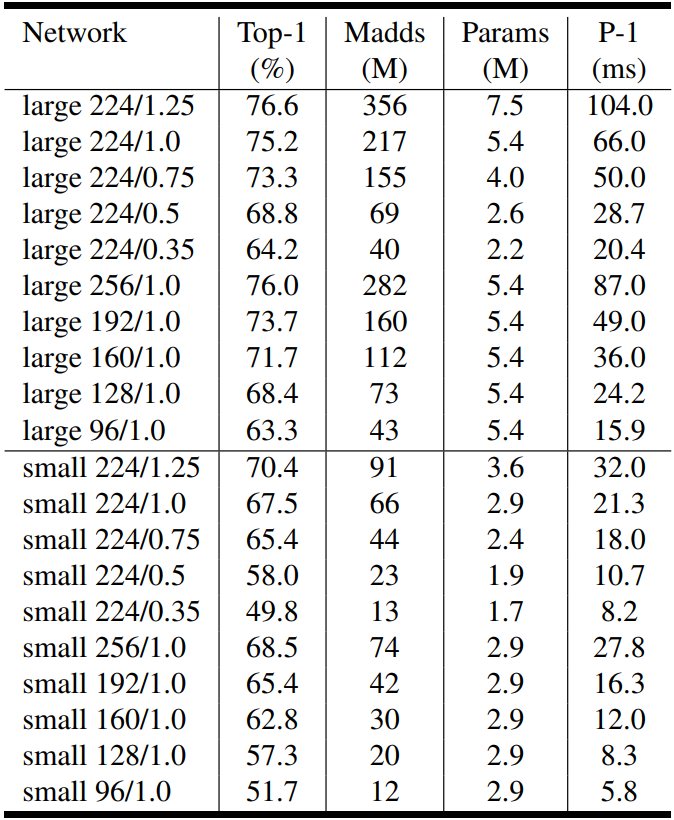
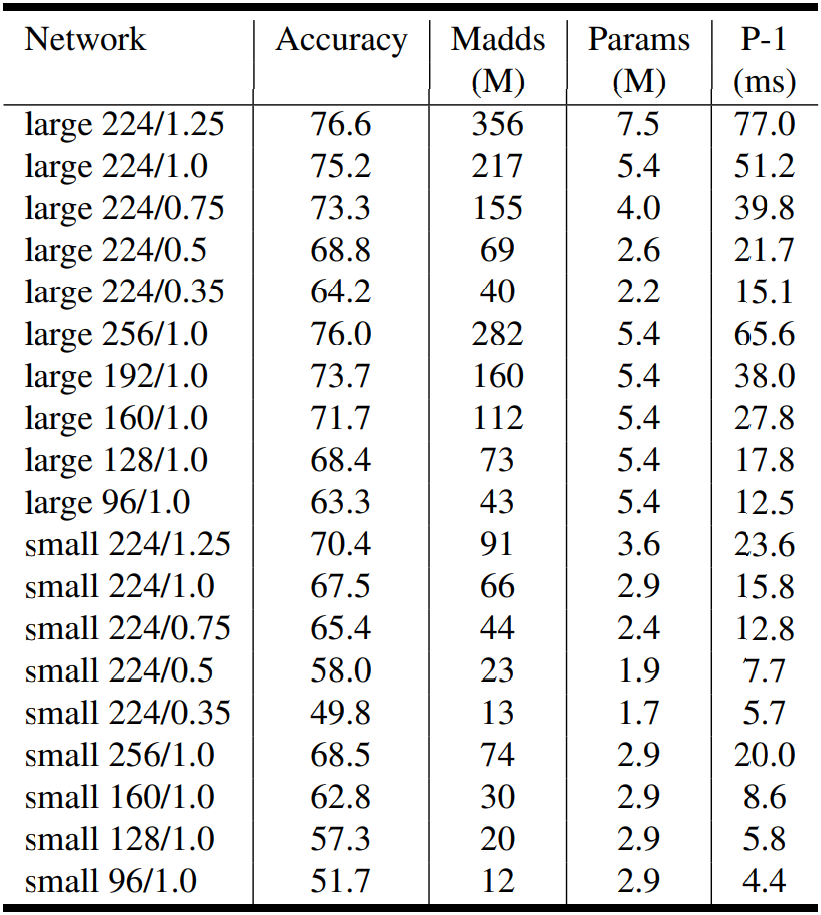
update

Changed region(s): [[0.0, 0.0, 0.997, 1.0], [0.0312, 0.0, 0.1869, 0.061]]

diff --git a/_posts/2019-05-22-MobileNetV3.md b/_posts/2019-05-22-MobileNetV3.md
@@ -48,30 +48,30 @@ tags:
 
 &emsp;移动模型已经建立在越来越高效的构建块之上。MobileNetV1引入深度可分离卷积作为传统卷积层的有效替代。深度可分卷积通过将空间滤波与特征生成机制分离，有效地分解了传统卷积。深度可分卷积由两个独立的层定义:用于空间滤波的轻量级深度卷积和用于特征生成的较重的1x1逐点卷积。
 
-&emsp;MobileNetV2引入了线性瓶颈和反向残差结构，以便利用问题的低秩性质使层结构更加有效。这个结构如下图所示，由1x1拓展卷积（注：即提升通道数）、深度卷积和1x1投影层定义。当且仅当输入和输出具有相同数量的通道时，才用残差链接连接它们。该结构在保持输入和输出的紧凑表示的同时，在内部扩展到高维特征空间，以增加每个通道非线性转换的表现力。
+&emsp;MobileNetV2引入了线性瓶颈和反向残差结构，以便利用问题的低秩性质使层结构更加有效。这个结构如图3所示，由1x1拓展卷积（注：即提升通道数）、深度卷积和1x1投影层定义。当且仅当输入和输出具有相同数量的通道时，才用残差链接连接它们。该结构在保持输入和输出的紧凑表示的同时，在内部扩展到高维特征空间，以增加每个通道非线性转换的表现力。
 
 <center>
     <img style="border-radius: 0.3125em;
     box-shadow: 0 2px 4px 0 rgba(34,36,38,.12),0 2px 10px 0 rgba(34,36,38,.08);" 
-    src="https://raw.githubusercontent.com/ShowLo/ShowLo.github.io/master/img/2019-05-22-MobileNetV3/MobileNetV2.png">
+    src="https://raw.githubusercontent.com/ShowLo/ShowLo.github.io/master/img/2019-05-22-MobileNetV3/figure3.png">
     <br>
     <div style="color:orange; border-bottom: 1px solid #d9d9d9;
     display: inline-block;
     color: #999;
-    padding: 2px;">MobileNetV2层(反向残差和线性瓶颈)。每个块由窄的输入和输出(瓶颈)组成，它们没有非线性，然后扩展到一个更高维度的空间并投影到输出。残差连接瓶颈(而不是扩展)</div>
+    padding: 2px;">图3. MobileNetV2层(反向残差和线性瓶颈)。每个块由窄的输入和输出(瓶颈)组成，它们没有非线性，然后扩展到一个更高维度的空间并投影到输出。残差连接瓶颈(而不是扩展)</div>
 </center>
 
-&emsp;MnasNet建立在MobileNetV2结构上，在瓶颈结构中引入基于压缩和激励（squeeze and excitation）的轻量级注意力模块。注意，与[Squeeze-and-Excitation Networks](https://arxiv.org/abs/1709.01507)中提出的基于ResNet的模块相比，压缩和激励模块集成在不同的位置。此模块位于拓展的深度滤波器之后，以便注意力机制应用于最大的表示（representation），如下图所示。
+&emsp;MnasNet建立在MobileNetV2结构上，在瓶颈结构中引入基于压缩和激励（squeeze and excitation）的轻量级注意力模块。注意，与[Squeeze-and-Excitation Networks](https://arxiv.org/abs/1709.01507)中提出的基于ResNet的模块相比，压缩和激励模块集成在不同的位置。此模块位于拓展的深度滤波器之后，以便注意力机制应用于最大的表示（representation），如图4所示。
 
 <center>
     <img style="border-radius: 0.3125em;
     box-shadow: 0 2px 4px 0 rgba(34,36,38,.12),0 2px 10px 0 rgba(34,36,38,.08);" 
-    src="https://raw.githubusercontent.com/ShowLo/ShowLo.github.io/master/img/2019-05-22-MobileNetV3/MobileNetV3.png">
+    src="https://raw.githubusercontent.com/ShowLo/ShowLo.github.io/master/img/2019-05-22-MobileNetV3/figure4.png">
     <br>
     <div style="color:orange; border-bottom: 1px solid #d9d9d9;
     display: inline-block;
     color: #999;
-    padding: 2px;">MobileNetV2+Squeeze-and-Excite。与SENet相比，我们在残差层施加压缩和激励。 我们根据层的不同使用不同的非线性，详见5.2节</div>
+    padding: 2px;">图4. MobileNetV2+Squeeze-and-Excite。与SENet相比，我们在残差层施加压缩和激励。 我们根据层的不同使用不同的非线性，详见5.2节</div>
 </center>
 
 &emsp;对于MobileNetV3，我们使用这些层的组合作为构建块，以便构建最有效的模型。图层也通过修改swish非线性进行升级。压缩和激励以及swish非线性都使用了sigmoid，它的计算效率很低，而且很难在定点算法中保持精度，因此我们将其替换为硬sigmoid，如5.2节所讨论的。
@@ -124,17 +124,17 @@ tags:
 
 &emsp;为了减少延迟并保留高维特征，我们将该层移到最终的平均池化之后。最后一组特征现在以1x1空间分辨率计算，而不是7x7空间分辨率。这种设计选择的结果是，在计算和延迟方面，特征的计算变得几乎是free的。
 
-&emsp;一旦降低了该特征生成层的成本，就不再需要以前的瓶颈投影层来减少计算量。该观察允许我们删除前一个瓶颈层中的投影和滤波层，从而进一步降低计算复杂度。原始阶段和优化后的最后一个阶段如下图所示。有效的最后一个阶段将延迟减少了10毫秒，即15%的运行时间，并将操作数量减少了3000万个MAdds，几乎没有损失精度。 第6节包含了详细的结果。
+&emsp;一旦降低了该特征生成层的成本，就不再需要以前的瓶颈投影层来减少计算量。该观察允许我们删除前一个瓶颈层中的投影和滤波层，从而进一步降低计算复杂度。原始阶段和优化后的最后一个阶段如图5所示。有效的最后一个阶段将延迟减少了10毫秒，即15%的运行时间，并将操作数量减少了3000万个MAdds，几乎没有损失精度。 第6节包含了详细的结果。
 
 <center>
     <img style="border-radius: 0.3125em;
     box-shadow: 0 2px 4px 0 rgba(34,36,38,.12),0 2px 10px 0 rgba(34,36,38,.08);" 
-    src="https://raw.githubusercontent.com/ShowLo/ShowLo.github.io/master/img/2019-05-22-MobileNetV3/original-efficient.png">
+    src="https://raw.githubusercontent.com/ShowLo/ShowLo.github.io/master/img/2019-05-22-MobileNetV3/figure5.png">
     <br>
     <div style="color:orange; border-bottom: 1px solid #d9d9d9;
     display: inline-block;
     color: #999;
-    padding: 2px;">原来的和有效的最后一个阶段的比较。这个更有效的最后阶段能够在不损失精度的情况下，在网络的末端丢弃三个expensive的层</div>
+    padding: 2px;">图5. 原来的和有效的最后一个阶段的比较。这个更有效的最后阶段能够在不损失精度的情况下，在网络的末端丢弃三个expensive的层</div>
 </center>
 
 &emsp;另一个expensive的层是初始过滤器集。目前的移动模型倾向于在一个完整的3x3卷积中使用32个滤波器来构建初始滤波器库进行边缘检测。通常这些过滤器是彼此的镜像。我们尝试减少滤波器的数量，并使用不同的非线性来尝试减少冗余。我们决定对这一层使用硬swish非线性，因为它表现得和其他被测试的非线性一样好。我们能够将滤波器的数量减少到16个，同时保持与使用ReLU或swish的32个滤波器相同的精度。这节省了额外的3毫秒和1000万MAdds。
@@ -151,17 +151,17 @@ $$swish(x)=x\cdot\sigma(x)$$
 
 $$h-swish[x]=x\frac{RELU6(x+3)}{6}$$
 
-&emsp;最近在某篇文章中也提出了类似的hard-swish版本。下图显示了sigmoid和swish非线性的软、硬版本的比较。我们选择常量的动机是简单，并且与原始的平滑版本很好地匹配。在我们的实验中，我们发现所有这些函数的硬版本在精度上没有明显的差异，但是从部署的角度来看，它们具有多种优势。首先，几乎所有的软件和硬件框架上都可以使用ReLU6的优化实现。其次，在量化模式下，它消除了由于近似sigmoid的不同实现而引起的潜在数值精度损失。最后，即使优化了量化的sigmoid实现，其速度也比相应的ReLU慢得多。在我们的实验中，用量化模式下的swish替换h-swish使推理延迟增加了15%。
+&emsp;最近在某篇文章中也提出了类似的hard-swish版本。图6显示了sigmoid和swish非线性的软、硬版本的比较。我们选择常量的动机是简单，并且与原始的平滑版本很好地匹配。在我们的实验中，我们发现所有这些函数的硬版本在精度上没有明显的差异，但是从部署的角度来看，它们具有多种优势。首先，几乎所有的软件和硬件框架上都可以使用ReLU6的优化实现。其次，在量化模式下，它消除了由于近似sigmoid的不同实现而引起的潜在数值精度损失。最后，在实践中，h-swish可以作为一个分段函数来实现，以减少内存访问次数，从而大大降低了延迟。
 
 <center>
     <img style="border-radius: 0.3125em;
     box-shadow: 0 2px 4px 0 rgba(34,36,38,.12),0 2px 10px 0 rgba(34,36,38,.08);" 
-    src="https://raw.githubusercontent.com/ShowLo/ShowLo.github.io/master/img/2019-05-22-MobileNetV3/sigmoid-swish.png">
+    src="https://raw.githubusercontent.com/ShowLo/ShowLo.github.io/master/img/2019-05-22-MobileNetV3/figure6.png">
     <br>
     <div style="color:orange; border-bottom: 1px solid #d9d9d9;
     display: inline-block;
     color: #999;
-    padding: 2px;">sigmoid和swish非线性及其他“硬”对应物</div>
+    padding: 2px;">图6. sigmoid和swish非线性及其他“硬”对应物</div>
 </center>
 
 &emsp;2. 随着我们深入网络，应用非线性的成本会降低，因为每层激活内存通常在分辨率下降时减半。顺便说一句，我们发现swish的大多数好处都是通过只在更深的层中使用它们实现的。因此，在我们的架构中，我们只在模型的后半部分使用h-swish。我们参照表1和表2来获得精确的布局。
@@ -188,13 +188,13 @@ $$h-swish[x]=x\frac{RELU6(x+3)}{6}$$
     padding: 2px;">表2. MobileNetv3-Small规范。符号见表1。</div>
 </center>
 
-&emsp;即使有了这些优化，h-swish仍然会带来一些延迟成本。然而，正如我们在第6节中所展示的，对准确性和延迟的净影响是积极的，它为进一步的软件优化提供了一个场所：一旦平滑的Sigmoid被逐段线性函数取代，大部分开销都是内存访问，可以通过将非线性与前一层融合来消除。
+&emsp;即使有了这些优化，h-swish仍然会带来一些延迟成本。然而，正如我们在第6节中所演示的那样，当使用基于分段函数的优化实现时，对精度和延迟的净影响是正的，没有优化，并且非常显著。
 
-#### 5.2.1 Large squeeze-and-excite
+#### 5.3 Large squeeze-and-excite
 
 &emsp;在Mnasnet中，压缩-激发瓶颈的大小与卷积瓶颈的大小有关。取而代之的是，我们将它们全部替换为固定为拓展层通道数的1/4。我们发现这样做可以在适当增加参数数量的情况下提高精度，并且没有明显的延迟成本。
 
-### 5.3 MobileNetV3定义
+### 5.4 MobileNetV3定义
 
 &emsp;MobileNetV3被定义为两个模型:MobileNetV3-Large和MobileNetV3-Small。这些模型分别针对高资源用例和低资源用例。通过将平台感知的NAS和NetAdapt用于网络搜索，并结合本节定义的网络改进，可以创建模型。我们的网络的完整规范见表1和表2。
 
@@ -212,32 +212,32 @@ $$h-swish[x]=x\frac{RELU6(x+3)}{6}$$
 
 #### 6.1.2 测量设置
 
-&emsp;为了测量延迟，我们使用标准的谷歌Pixel手机，并通过标准的TFLite基准测试工具运行所有网络。我们在所有测量中都使用单线程大内核。我们没有报告多核推理时间，因为我们发现这种设置对移动应用程序不太实用。
+&emsp;为了测量延迟，我们使用标准的谷歌Pixel手机，并通过标准的TFLite基准测试工具运行所有网络。我们在所有测量中都使用单线程大内核。我们没有报告多核推理时间，因为我们发现这种设置对移动应用程序不太实用。我们为tensorflow lite提供了一个h-swish的原子操作符，在最新版本中它是默认的。我们在图9展示了优化后的h-swish的影响。
 
 ### 6.2 结果
 
-&emsp;如下图所示，我们的模型优于目前的STOA，如MnasNet、ProxylessNas和MobileNetV2。我们在表3中报告了不同Pixel手机上的浮点性能。我们在表4中包括量化结果。
+&emsp;如图1所示，我们的模型优于目前的STOA，如MnasNet、ProxylessNas和MobileNetV2。我们在表3中报告了不同Pixel手机上的浮点性能。我们在表4中包括量化结果。
 
 <center>
     <img style="border-radius: 0.3125em;
     box-shadow: 0 2px 4px 0 rgba(34,36,38,.12),0 2px 10px 0 rgba(34,36,38,.08);" 
-    src="https://raw.githubusercontent.com/ShowLo/ShowLo.github.io/master/img/2019-05-22-MobileNetV3/MobileNetV3-small-large.png">
+    src="https://raw.githubusercontent.com/ShowLo/ShowLo.github.io/master/img/2019-05-22-MobileNetV3/figure1.png">
     <br>
     <div style="color:orange; border-bottom: 1px solid #d9d9d9;
     display: inline-block;
     color: #999;
-    padding: 2px;">Pixel 1 延迟与ImageNet上top-1准确率之间的权衡。所有模型都使用输入分辨率224。V3 large和V3 small使用乘数0.75、1和1.25来显示最佳边界。使用TFLite在同一设备的单个大内核上测量所有延迟。MobileNetV3-Small和Large是我们提议的下一代移动模型</div>
+    padding: 2px;">图1. Pixel 1 延迟与ImageNet上top-1准确率之间的权衡。所有模型都使用输入分辨率224。V3 large和V3 small使用乘数0.75、1和1.25来显示最佳边界。使用TFLite在同一设备的单个大内核上测量所有延迟。MobileNetV3-Small和Large是我们提议的下一代移动模型</div>
 </center>
 
 <center>
     <img style="border-radius: 0.3125em;
     box-shadow: 0 2px 4px 0 rgba(34,36,38,.12),0 2px 10px 0 rgba(34,36,38,.08);" 
-    src="https://raw.githubusercontent.com/ShowLo/ShowLo.github.io/master/img/2019-05-22-MobileNetV3/Accuracy-MADDS.png">
+    src="https://raw.githubusercontent.com/ShowLo/ShowLo.github.io/master/img/2019-05-22-MobileNetV3/figure2.png">
     <br>
     <div style="color:orange; border-bottom: 1px solid #d9d9d9;
     display: inline-block;
     color: #999;
-    padding: 2px;">MAdds和top-1准确率之间的权衡。这允许比较针对不同硬件或软件框架的模型。所有MobileNetV3用于输入分辨率224，并使用乘数0.35、0.5、0.75、1和1.25。其他分辨率见第6节</div>
+    padding: 2px;">图2. MAdds和top-1准确率之间的权衡。这允许比较针对不同硬件或软件框架的模型。所有MobileNetV3用于输入分辨率224，并使用乘数0.35、0.5、0.75、1和1.25。其他分辨率见第6节</div>
 </center>
 
 <center>
@@ -248,7 +248,7 @@ $$h-swish[x]=x\frac{RELU6(x+3)}{6}$$
     <div style="color:orange; border-bottom: 1px solid #d9d9d9;
     display: inline-block;
     color: #999;
-    padding: 2px;">表3. Pixel系列手机的浮点性能（“P-n”表示Pixel-n手机）。所有延迟都以毫秒为单位。推理延迟是使用批量大小为1的单个大核心来测量的</div>
+    padding: 2px;">表3. Pixel系列手机的浮点性能（“P-n”表示Pixel-n手机）。所有延迟都以毫秒为单位，并使用批大小为1的单个大核心来测量。top-1精度是在ImageNet上测得的。</div>
 </center>
 
 <center>
@@ -262,24 +262,24 @@ $$h-swish[x]=x\frac{RELU6(x+3)}{6}$$
     padding: 2px;">表4. 量化性能。所有延迟都以毫秒为单位。推理延迟是在各自的Pixel 1/2/3设备上使用单个大核心来测量的</div>
 </center>
 
-&emsp;在下图中，我们展示了MobileNetV3性能权衡作为乘数和分辨率的函数。请注意，MobileNetV3-Small的性能比MobileNetV3-Large的性能好得多，其乘法器缩放到与性能匹配的倍数接近3%。另一方面，分辨率提供了比乘数更好的权衡。但是，需要注意的是，分辨率通常是由问题决定的(例如分割和检测问题通常需要更高的分辨率)，因此不能总是用作可调参数。
+&emsp;在图7中，我们展示了MobileNetV3性能权衡作为乘数和分辨率的函数。请注意，MobileNetV3-Small的性能比MobileNetV3-Large的性能好得多，其乘法器缩放到与性能匹配的倍数接近3%。另一方面，分辨率提供了比乘数更好的权衡。但是，需要注意的是，分辨率通常是由问题决定的(例如分割和检测问题通常需要更高的分辨率)，因此不能总是用作可调参数。
 
 <center>
     <img style="border-radius: 0.3125em;
     box-shadow: 0 2px 4px 0 rgba(34,36,38,.12),0 2px 10px 0 rgba(34,36,38,.08);" 
-    src="https://raw.githubusercontent.com/ShowLo/ShowLo.github.io/master/img/2019-05-22-MobileNetV3/MobileNetV3-V2.png">
+    src="https://raw.githubusercontent.com/ShowLo/ShowLo.github.io/master/img/2019-05-22-MobileNetV3/figure7.png">
     <br>
     <div style="color:orange; border-bottom: 1px solid #d9d9d9;
     display: inline-block;
     color: #999;
-    padding: 2px;">作为不同乘数和分辨率函数的MobileNetV3性能。在我们的实验中，我们使用了固定分辨率为224同时乘数为0.35、0.5、0.75、1.0和1.25，以及固定深度乘数为1.0同时分辨率为96、128、160、192、224和256。彩色效果最佳</div>
+    padding: 2px;">图7. 作为不同乘数和分辨率函数的MobileNetV3性能。在我们的实验中，我们使用了固定分辨率为224同时乘数为0.35、0.5、0.75、1.0和1.25，以及固定深度乘数为1.0同时分辨率为96、128、160、192、224和256。top-1精度是在ImageNet上测量得到的，延迟以ms为单位。</div>
 </center>
 
 #### 6.2.1 模型简化测试（Ablation study）
 
 ##### 非线性的影响
 
-&emsp;在表5和下图中，我们展示了在何处插入h-swish的决定如何影响延迟。特别重要的是，我们注意到，在整个网络上使用h-swish会导致精度略有提高(0.2)，同时增加了近20%的延迟，并再次回到效率边界（efficient frontier）。
+&emsp;在表5中，我们研究了在何处插入h-swish非线性的选择，以及使用优化实现相对于简单实现的改进。可以看出，使用优化的h-swish实现可以节省6ms（超过运行时间的10%）。优化后的h-swish只比传统的ReLU多增加1ms。
 
 <center>
     <img style="border-radius: 0.3125em;
@@ -289,35 +289,35 @@ $$h-swish[x]=x\frac{RELU6(x+3)}{6}$$
     <div style="color:orange; border-bottom: 1px solid #d9d9d9;
     display: inline-block;
     color: #999;
-    padding: 2px;">表5. 非线性对MobileNetV3-Large的影响。在h-swish@N中，N表示启用h-swish的第一层的通道数</div>
+    padding: 2px;">表5. 非线性对MobileNetV3-Large的影响。在h-swish@N中，N表示启用h-swish的第一层的通道数。第三列显示了没有优化h-swish的运行时间。top-1精度是在ImageNet上测量得到的，延迟以ms为单位。</div>
 </center>
+
+&emsp;图8显示了基于非线性选择和网络宽度的有效边界。MobileNetV3在网络中间使用h-swish，并且明显控制着ReLU。有趣的是，向整个网络添加h-swish略胜于扩展网络的插值边界。
 
 <center>
     <img style="border-radius: 0.3125em;
     box-shadow: 0 2px 4px 0 rgba(34,36,38,.12),0 2px 10px 0 rgba(34,36,38,.08);" 
-    src="https://raw.githubusercontent.com/ShowLo/ShowLo.github.io/master/img/2019-05-22-MobileNetV3/h-swish.png">
+    src="https://raw.githubusercontent.com/ShowLo/ShowLo.github.io/master/img/2019-05-22-MobileNetV3/figure8.png">
     <br>
     <div style="color:orange; border-bottom: 1px solid #d9d9d9;
     display: inline-block;
     color: #999;
-    padding: 2px;">h-swish vs swish vs ReLU对延迟的影响。曲线显示了使用深度乘数的边界。请注意，将h-swish放置在112个或更多通道的所有层，沿着最佳边界移动</div>
+    padding: 2px;">图8. h-swish与ReLU对优化和非优化h-swish延迟的影响。曲线显示了使用深度乘数的边界。注意，将h-swish放置在具有80个或更多通道的所有层上（V3）为优化的h-swish和非优化的h-swish提供了最佳的权衡。top-1精度是在ImageNet上测量得到的，延迟以ms为单位。</div>
 </center>
-
-&emsp;另一方面，与ReLU相比，使用h-swish提高了效率边界，尽管仍然比ReLU计算代价高了12%左右。最后，我们注意到，当h-swish通过融合到卷积运算符中得到优化时，我们预计h-swish和ReLU之间的延迟差距即使没有消失，也会显著减小。然而，h-swish和swish之间不可能有这样的改进，因为计算sigmoid本来代价就比较高。
 
 ##### 其他组件的影响
 
-&emsp;在下图中，我们展示了不同组件的引入是如何沿着延迟/准确率曲线移动的。
+&emsp;在图9中，我们展示了不同组件的引入是如何沿着延迟/准确率曲线移动的。
 
 <center>
     <img style="border-radius: 0.3125em;
     box-shadow: 0 2px 4px 0 rgba(34,36,38,.12),0 2px 10px 0 rgba(34,36,38,.08);" 
-    src="https://raw.githubusercontent.com/ShowLo/ShowLo.github.io/master/img/2019-05-22-MobileNetV3/progression.png">
+    src="https://raw.githubusercontent.com/ShowLo/ShowLo.github.io/master/img/2019-05-22-MobileNetV3/figure9.png">
     <br>
     <div style="color:orange; border-bottom: 1px solid #d9d9d9;
     display: inline-block;
     color: #999;
-    padding: 2px;">向网络体系结构中添加单个组件的影响</div>
+    padding: 2px;">图9. 向网络体系结构中添加单个组件的影响。进展过程是向上和向左移动的。</div>
 </center>
 
 ### 6.3 检测
@@ -343,17 +343,17 @@ $$h-swish[x]=x\frac{RELU6(x+3)}{6}$$
 
 ### 6.4 语义分割
 
-&emsp;在本小节中，我们使用MobileNetV2和提出的MobileNetV3作为移动语义分割的网络骨架。此外，我们比较了两个分割头。第一个是在MobileNetV2中提出的R-ASPP。R-ASPP是一种无源空间金字塔池化模块的简化设计，它只采用由1×1卷积和全局平均池化操作组成的两个分支。在这项工作中，我们提出了另一种轻型分割头，称为Lite R-ASPP(或LR-ASPP)，如下图所示。Lite R-ASPP是对R-ASPP的改进，它部署全局平均池的方式类似于压缩-激励模块，其中我们使用了一个具有较大步长的较大池化核(以节省一些计算)，并且模块中只有一个1×1卷积。我们对MobileNetV3的最后一个块应用空洞卷积（atrous convolution）来提取更密集的特性，并进一步从底层特性添加一个跳跃（skip）连接来捕获更详细的信息。
+&emsp;在本小节中，我们使用MobileNetV2和提出的MobileNetV3作为移动语义分割的网络骨架。此外，我们比较了两个分割头。第一个是在MobileNetV2中提出的R-ASPP。R-ASPP是一种无源空间金字塔池化模块的简化设计，它只采用由1×1卷积和全局平均池化操作组成的两个分支。在这项工作中，我们提出了另一种轻型分割头，称为Lite R-ASPP(或LR-ASPP)，如图10所示。Lite R-ASPP是对R-ASPP的改进，它部署全局平均池的方式类似于压缩-激励模块，其中我们使用了一个具有较大步长的较大池化核(以节省一些计算)，并且模块中只有一个1×1卷积。我们对MobileNetV3的最后一个块应用空洞卷积（atrous convolution）来提取更密集的特性，并进一步从底层特性添加一个跳跃（skip）连接来捕获更详细的信息。
 
 <center>
     <img style="border-radius: 0.3125em;
     box-shadow: 0 2px 4px 0 rgba(34,36,38,.12),0 2px 10px 0 rgba(34,36,38,.08);" 
-    src="https://raw.githubusercontent.com/ShowLo/ShowLo.github.io/master/img/2019-05-22-MobileNetV3/MobileNetV3-Segmentation.png">
+    src="https://raw.githubusercontent.com/ShowLo/ShowLo.github.io/master/img/2019-05-22-MobileNetV3/figure10.png">
     <br>
     <div style="color:orange; border-bottom: 1px solid #d9d9d9;
     display: inline-block;
     color: #999;
-    padding: 2px;">在MobileNetV3的基础上，提出的分割头Lite R-ASPP提供了快速的语义分割结果</div>
+    padding: 2px;">图10. 在MobileNetV3的基础上，提出的分割头Lite R-ASPP提供了快速的语义分割结果，同时混合了多种分辨率的特征。</div>
 </center>
 
 &emsp;我们使用度量mIOU对Cityscapes数据集进行了实验，只使用了“fine”注释。 我们采用与MobileNetV2相同的训练方案。 我们所有的模型都是从零开始训练，没有在ImageNet上进行预训练，并使用单尺度输入进行评估。 与目标检测类似，我们发现我们可以在不显著降低性能的情况下，将网络骨干最后一块的通道减少2倍。 我们认为这是因为骨干网络是为具有1000类的ImageNet图像分类设计的，而Cityscapes只有19类，这意味着骨干网络中存在一定的通道冗余。
@@ -371,7 +371,7 @@ $$h-swish[x]=x\frac{RELU6(x+3)}{6}$$
     padding: 2px;">表7. Cityscapes验证集的语义分割结果。RF2：将最后一个块中的滤波器减少2倍。V2 0.5和V2 0.35是MobileNetV2，深度乘数分别为0.5和0.35。SH：分割头，其中$\times$使用R-ASSP，而$\checkmark$使用建议的LR-ASSP。F：分割头中使用的滤波器数量。CPU（f）：在Pixel 3（浮点）用全分辨率输入（即1024×2048）的单个大核心上测量的CPU时间。CPU（h）：测量的CPU时间，用半分辨率输入（即512×1024）。第8行和第11行是我们的MobileNetv3细分候选</div>
 </center>
 
-&emsp;表8显示了我们的Cityscapes测试集结果。我们的以MobileNetV3为网络骨干的分割模型，表现分别比ESPNetv2、CCC2和ESPNetv1超出10.5%、10.6%、12.3%，同时在MAdds方面更快。在MobileNetV3的最后一个块中，当不使用空洞卷积提取密集特征图时，性能略有下降0.6%，但速度提高到1.98B(对于半分辨率输入)，分别是ESPNetv2、CCC2和ESPNetv1的1.7倍、1.59倍和2.24倍。此外，我们的以MobileNetV3-Small作为骨干网络的模型仍然优于它们至少一个6.2%的健壮差额（healthy margin）。我们最快的模型版本比ESPNetv2-small好13.6%，推理速度稍微快一些。
+&emsp;表8显示了我们的Cityscapes测试集结果。我们的以MobileNetV3为网络骨干的分割模型，性能分别比ESPNetv2、CCC2和ESPNetv1提高6.4%、10.6%、12.3%，同时在MAdds方面更快。在MobileNetV3的最后一个块中，当不使用空洞卷积提取密集特征图时，性能略有下降0.6%，但速度提高到1.98B(对于半分辨率输入)，分别是ESPNetv2、CCC2和ESPNetv1快1.36倍、1.59倍和2.27倍。此外，我们的以MobileNetV3-Small作为骨干网络的模型仍然优于它们至少一个2.1%的健壮差额（healthy margin）。
 
 <center>
     <img style="border-radius: 0.3125em;
@@ -386,7 +386,7 @@ $$h-swish[x]=x\frac{RELU6(x+3)}{6}$$
 
 ## 7. 结论与未来工作
 
-&emsp;本文介绍了MobileNetV3的Large和Small模型，展示了移动分类、检测和分割的STOA。我们已经描述了我们利用多种类型的网络架构搜索以及网络设计的进步来交付下一代移动模型的努力。我们还展示了如何采用像swish这样的非线性，并以量化友好和有效的方式应用压缩和激励，将它们作为有效的工具引入到移动模型领域。我们还介绍了一种称为LR-ASSP的轻量化分割译码器。尽管如何最好地将自动搜索技术与人类的直觉结合起来仍然是一个悬而未决的问题，但我们很高兴地提出了这些第一个积极的结果，并将继续在未来的工作中改进方法。
+&emsp;本文介绍了MobileNetV3的Large和Small模型，展示了移动分类、检测和分割的SOTA。我们描述了我们的努力，以利用多种网络架构搜索算法，以及先进的网络设计，以交付下一代移动模型。我们还展示了如何采用像swish这样的非线性，并以量化友好和有效的方式应用压缩和激励，将它们作为有效的工具引入到移动模型领域。我们还介绍了一种称为LR-ASSP的轻量级分割解码器。尽管如何最好地将自动搜索技术与人类的直觉结合起来仍然是一个悬而未决的问题，但我们很高兴地提出了这些初步的积极结果，并将继续在未来的工作中继续改进这些方法。
 
 ## 附录A 不同分辨率和乘数的性能表
 
